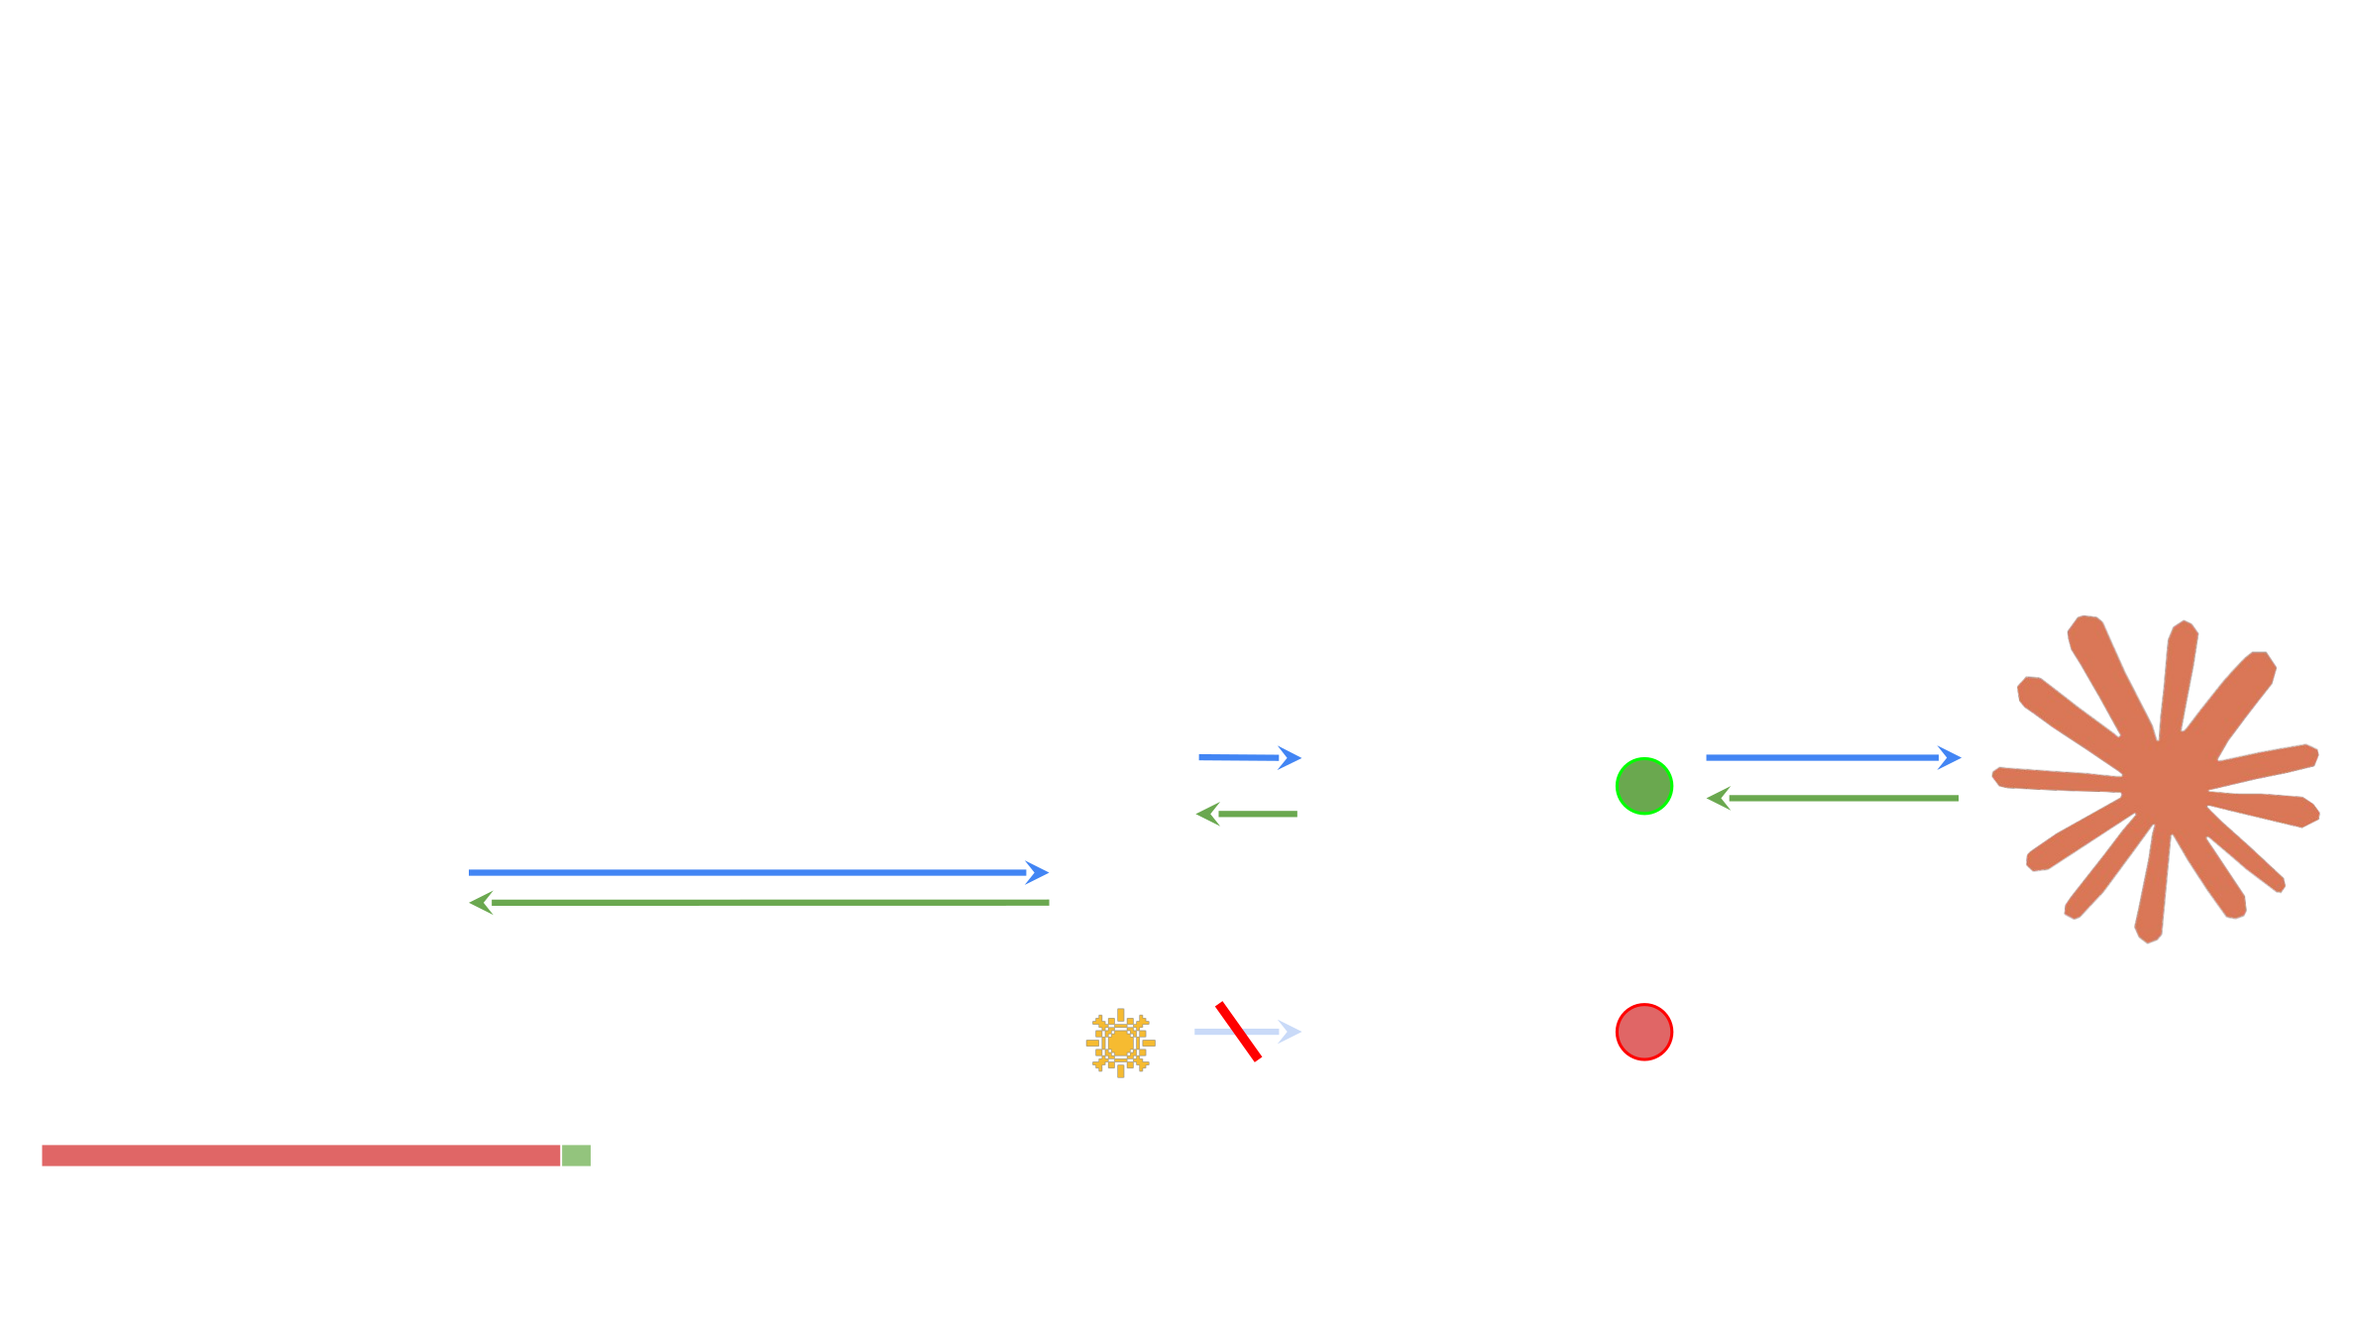
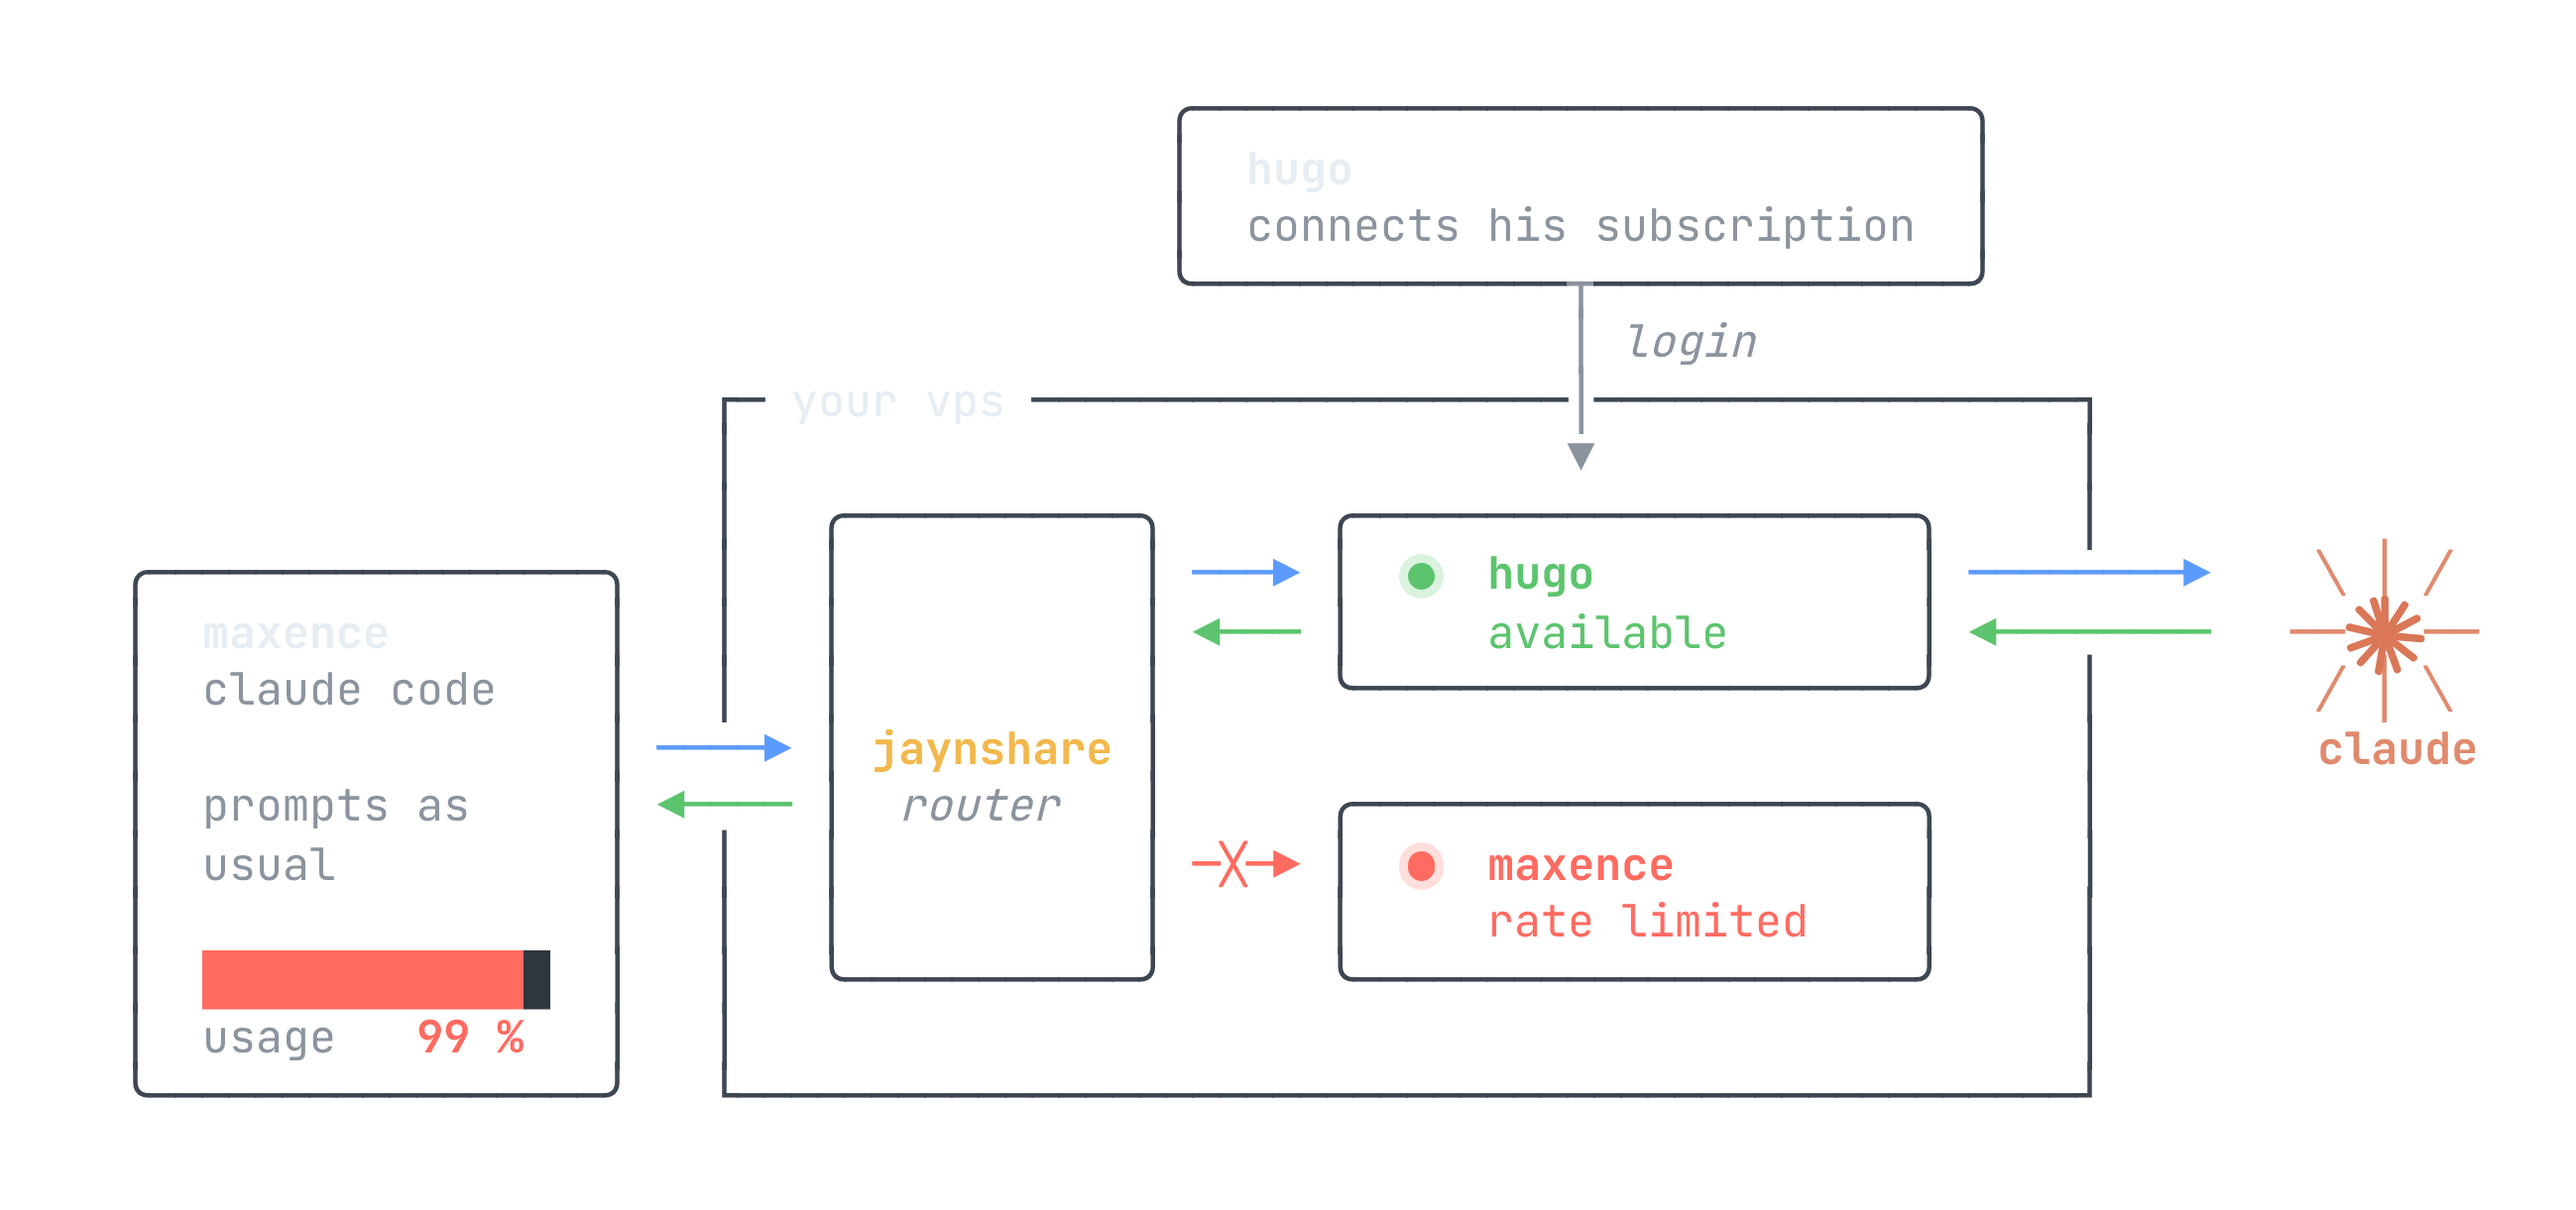
upd: Readme schema

diff --git a/README.md b/README.md
@@ -56,7 +56,7 @@ changes are less invasive.
   <picture>
     <source media="(prefers-color-scheme: dark)"
       srcset="docs/assets/overview-dark.png">
-    <img src="docs/assets/overview-light.png" width="710" height="400"
+    <img src="docs/assets/overview-light.png" width="710" height="334"
       alt="jaynshare routes each prompt to an account with quota left">
   </picture>
 </p>
